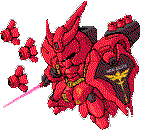
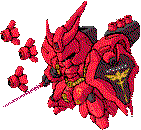
Apply 16-colour palettes to six suits; add reduce_palette tool and CloudPebble change guide

diff --git a/pebble/gundam_wfm_static_wf/tools/reduce_palette.py b/pebble/gundam_wfm_static_wf/tools/reduce_palette.py
@@ -1,0 +1,151 @@
+#!/usr/bin/env python3
+"""
+Reduce a sprite to a 16-colour palette (4 bits per pixel on the watch)
+======================================================================
+
+Usage
+-----
+  python reduce_palette.py SOURCE.png OUT.png WxH            # 15 colours + transparent
+  python reduce_palette.py SOURCE.png OUT.png WxH --flat     # no dithering
+  python reduce_palette.py SOURCE.png OUT.png WxH --colors 8 # fewer (no extra saving)
+
+Why this exists
+---------------
+fit_sprite.py writes 8-bit ARGB2222 sprites: 1 byte per pixel, whatever the
+number of colours. Pebble only stores bitmaps at 1, 2, 4 or 8 bits per pixel,
+so the only size drop worth having is getting a sprite down to 16 palette
+entries (one of them transparent), which the SDK stores at 4 bits per pixel:
+half the memory. A 42- or 32-colour palette saves nothing; it still needs 8 bits.
+
+What it does
+------------
+1. Scale SOURCE (trimmed to its opaque bounds) to WxH with Lanczos, filtered
+   on premultiplied alpha, like resize_sprite.py. SOURCE should be the
+   full-colour art (tools/originals), not an already-quantized sprite -- except
+   for a suit that was recoloured after import (Sazabi), where the shipped
+   sprite is the source of truth.
+2. Snap to the watch's 64 colours (ARGB2222, levels 0/85/170/255).
+3. Choose the 15 palette entries from those 64: weighted k-medoids in CIELAB,
+   with colour weight = sqrt(pixel count) so a small bright detail (an eye, a
+   beam) is not outvoted by a large flat area. Entries are real watch colours,
+   so nothing is re-mapped on the device.
+4. Map every pixel to the nearest entry, with damped Floyd-Steinberg dithering
+   (60% error diffusion; full diffusion is noisy at 15 colours). --flat skips it.
+5. Alpha is 1-bit: opaque or transparent (one palette entry).
+6. Save as an indexed PNG (transparent entry first, via tRNS) so the SDK sees
+   at most 16 colours and can pick its 4-bit palette format.
+
+Needs Pillow and NumPy.
+"""
+
+import sys
+
+import numpy as np
+from PIL import Image
+
+
+def lab(rgb):
+    """sRGB (0-255, ...x3) -> CIELAB."""
+    c = rgb / 255.0
+    c = np.where(c > 0.04045, ((c + 0.055) / 1.055) ** 2.4, c / 12.92)
+    m = np.array([[.4124, .3576, .1805], [.2126, .7152, .0722],
+                  [.0193, .1192, .9505]])
+    xyz = c @ m.T / np.array([.9505, 1, 1.089])
+    f = np.where(xyz > 0.008856, np.cbrt(xyz), 7.787 * xyz + 16 / 116)
+    return np.stack([116 * f[..., 1] - 16, 500 * (f[..., 0] - f[..., 1]),
+                     200 * (f[..., 1] - f[..., 2])], -1)
+
+
+def snap(a):
+    """Snap to the watch's four levels per channel."""
+    return (np.clip(np.round(np.asarray(a, float) / 85.0), 0, 3) * 85
+            ).astype(np.uint8)
+
+
+def choose_palette(snapped, k):
+    """k representative colours out of the (<=64) colours present."""
+    cols, cnt = np.unique(snapped.reshape(-1, 3), axis=0, return_counts=True)
+    if len(cols) <= k:
+        return cols
+    lb = lab(cols.astype(float))
+    w = np.sqrt(cnt.astype(float))
+    sel = [int(np.argmax(w))]
+    for _ in range(k - 1):                       # weighted farthest-point start
+        d = np.min(np.linalg.norm(lb[:, None] - lb[sel][None], axis=2), axis=1)
+        sel.append(int(np.argmax(d * w)))
+    for _ in range(20):                          # weighted k-medoids
+        asg = np.linalg.norm(lb[:, None] - lb[sel][None], axis=2).argmin(1)
+        new = []
+        for j in range(k):
+            m = np.flatnonzero(asg == j)
+            if len(m) == 0:
+                new.append(sel[j])
+                continue
+            cost = [(w[m] * np.linalg.norm(lb[m] - lb[i], axis=1)).sum()
+                    for i in m]
+            new.append(int(m[int(np.argmin(cost))]))
+        if new == sel:
+            break
+        sel = new
+    return cols[sel]
+
+
+def reduce_palette(src, size, colors=16, dither=True):
+    """Returns an indexed PIL image: index 0 transparent, then colors-1 colours."""
+    im = Image.open(src).convert('RGBA')
+    im = im.crop(im.getchannel('A').getbbox())
+    im = im.convert('RGBa').resize(size, Image.LANCZOS).convert('RGBA')
+    a = np.asarray(im)
+    op = a[:, :, 3] >= 128
+    rgb = a[:, :, :3].astype(float)
+    pal = choose_palette(snap(rgb)[op], colors - 1)
+    pl = lab(pal.astype(float))
+    h, w = op.shape
+    idx = np.zeros((h, w), np.uint8)             # 0 = transparent
+    if dither:
+        buf = rgb.copy()
+        for y in range(h):
+            for x in range(w):
+                if not op[y, x]:
+                    continue
+                old = buf[y, x]
+                i = int(np.linalg.norm(pl - lab(np.clip(old, 0, 255)),
+                                       axis=1).argmin())
+                idx[y, x] = i + 1
+                err = old - pal[i]
+                for dx, dy, f in ((1, 0, 7 / 16), (-1, 1, 3 / 16),
+                                  (0, 1, 5 / 16), (1, 1, 1 / 16)):
+                    nx, ny = x + dx, y + dy
+                    if 0 <= nx < w and ny < h:
+                        buf[ny, nx] += err * f * 0.6
+    else:
+        d = np.linalg.norm(lab(snap(rgb).astype(float))[..., None, :] - pl,
+                           axis=3)
+        idx = np.where(op, d.argmin(2) + 1, 0).astype(np.uint8)
+    out = Image.fromarray(idx, 'P')
+    flat = [0, 0, 0] + [int(v) for c in pal for v in c]
+    out.putpalette(flat)            # exact length: padding to 256 makes PIL write 8-bit
+    out.info['transparency'] = 0
+    return out
+
+
+def main(argv):
+    args = [a for a in argv[1:] if not a.startswith('--')]
+    colors = 16
+    if '--colors' in argv:
+        colors = int(argv[argv.index('--colors') + 1])
+        args = [a for a in args if a != str(colors)]
+    if len(args) != 3 or 'x' not in args[2].lower():
+        print(__doc__.strip())
+        return 2
+    src, dst, spec = args
+    w, h = (int(v) for v in spec.lower().split('x', 1))
+    img = reduce_palette(src, (w, h), colors, '--flat' not in argv)
+    img.save(dst, 'PNG', optimize=True, transparency=0)
+    print('%s: %dx%d, %d palette entries (index 0 transparent)'
+          % (dst, w, h, colors))
+    return 0
+
+
+if __name__ == '__main__':
+    sys.exit(main(sys.argv))

diff --git a/pebble/gundam_wfm_static_wf/CLOUDPEBBLE_CHANGES.md b/pebble/gundam_wfm_static_wf/CLOUDPEBBLE_CHANGES.md
@@ -1,0 +1,177 @@
+# CloudPebble change guide: everything since the original watchface
+
+Covers all edits made on branch `babel-claude/magical-cori-h3t34x`:
+five new suits (RX78, Victory 2, Zaku II, GM Sniper II, Kshatriya), enlarged
+Aerial / Byarlant / GP02A / Qubeley, round-safe chalk sprites, the new Gundam Xi
+art, and 16-colour sprites for six suits.
+
+**Line numbers are for the ORIGINAL files** (the repo before the first commit
+on this branch). Within each file, make the edits **bottom to top** so the
+numbers above stay valid. Find the lines by the quoted text if your copy has
+drifted.
+
+Only 3 files have code changes: `src/c/main.c`, `src/pkjs/config.js` and
+(through the Resources panel) `package.json`. Everything else is images.
+
+---
+
+## 1. `src/c/main.c` (2 edits)
+
+### Edit A, `load_sprite()` switch: insert after line 144 (do this first)
+
+Before (lines 144-146):
+```c
+144:     case SPRITE_SET_CROSSBONE: res = RESOURCE_ID_CROSSBONE_IDLE; break;
+145:     case SPRITE_SET_AERIAL:
+146:     default:                   res = RESOURCE_ID_AE_IDLE;        break;
+```
+After (5 new lines after 144; the old 145-146 become 150-151 in your file):
+```c
+    case SPRITE_SET_CROSSBONE: res = RESOURCE_ID_CROSSBONE_IDLE; break;
+    case SPRITE_SET_RX78:      res = RESOURCE_ID_RX78_IDLE;      break;
+    case SPRITE_SET_VICTORY2:  res = RESOURCE_ID_VICTORY2_IDLE;  break;
+    case SPRITE_SET_ZAKU2:     res = RESOURCE_ID_ZAKU2_IDLE;     break;
+    case SPRITE_SET_GMSNIPER2: res = RESOURCE_ID_GMSNIPER2_IDLE; break;
+    case SPRITE_SET_KSHATRIYA: res = RESOURCE_ID_KSHATRIYA_IDLE; break;
+    case SPRITE_SET_AERIAL:
+    default:                   res = RESOURCE_ID_AE_IDLE;        break;
+```
+
+### Edit B, `SpriteSet` enum: lines 36-38
+
+Before:
+```c
+36:   SPRITE_SET_CROSSBONE = 8,
+37: 
+38:   SPRITE_SET_LAST      = SPRITE_SET_CROSSBONE,  // clamp bound; bump with the list
+```
+After:
+```c
+  SPRITE_SET_CROSSBONE = 8,
+  SPRITE_SET_RX78      = 9,
+  SPRITE_SET_VICTORY2  = 10,
+  SPRITE_SET_ZAKU2     = 11,
+  SPRITE_SET_GMSNIPER2 = 12,
+  SPRITE_SET_KSHATRIYA = 13,
+
+  SPRITE_SET_LAST      = SPRITE_SET_KSHATRIYA,  // clamp bound; bump with the list
+```
+Forgetting the `SPRITE_SET_LAST` change is the easy mistake: the settings
+handler clamps any value above it, so the five new suits would all silently
+load as Crossbone (8).
+
+---
+
+## 2. `src/pkjs/config.js` (1 edit)
+
+Lines 23-31 (the `options` list). Line 31 needs a trailing comma.
+
+Before:
+```js
+31:           { "label": "Crossbone Full Cloth", "value": "8" }
+```
+After:
+```js
+          { "label": "Crossbone Full Cloth", "value": "8" },
+          { "label": "RX78",                 "value": "9" },
+          { "label": "Victory 2",            "value": "10" },
+          { "label": "Zaku II",              "value": "11" },
+          { "label": "GM Sniper II",         "value": "12" },
+          { "label": "Kshatriya",            "value": "13" }
+```
+Gundam Xi stays value `3`. Its art was replaced; there is no code change for it.
+
+---
+
+## 3. Resources (`package.json` `resources.media`)
+
+CloudPebble writes this file for you when you add resources in the
+**Resources** panel, so do it there: **Add new resource → Bitmap**, upload the
+file, set the **identifier**, and attach the `~chalk` file as the chalk variant
+if the panel offers a platform variant.
+
+Five new bitmap resources, identifiers exactly:
+
+| Identifier | Base file | Chalk file |
+|---|---|---|
+| `RX78_IDLE` | `rx78_idle.png` | `rx78_idle~chalk.png` |
+| `VICTORY2_IDLE` | `victory2_idle.png` | `victory2_idle~chalk.png` |
+| `ZAKU2_IDLE` | `zaku2_idle.png` | `zaku2_idle~chalk.png` |
+| `GMSNIPER2_IDLE` | `gmsniper2_idle.png` | `gmsniper2_idle~chalk.png` |
+| `KSHATRIYA_IDLE` | `kshatriya_idle.png` | `kshatriya_idle~chalk.png` |
+
+If you edit the JSON directly instead: insert these five blocks between line 84
+(`},` closing `CROSSBONE_IDLE`) and line 85 (the `{` that opens the
+`FONT_BLACKOPS_42` entry), one per row above:
+```json
+                {
+                    "file": "images/rx78_idle.png",
+                    "name": "RX78_IDLE",
+                    "targetPlatforms": null,
+                    "type": "bitmap"
+                },
+```
+
+---
+
+## 4. Image files (26 total)
+
+Source: `resources/images/` on this branch. **ADD** = new file, **REPLACE** = same
+name as an existing one (keep the identifier). Those marked 16c are 16-colour
+(see section 5).
+
+| File | Action | Size | |
+|---|---|---|---|
+| `rx78_idle.png` / `~chalk` | ADD | 107x130 / 82x100 | |
+| `victory2_idle.png` / `~chalk` | ADD | 200x128 / 125x80 | |
+| `zaku2_idle.png` / `~chalk` | ADD | 135x130 / 103x100 | 16c |
+| `gmsniper2_idle.png` / `~chalk` | ADD | 98x130 / 76x100 | |
+| `kshatriya_idle.png` / `~chalk` | ADD | 128x130 / 99x100 | |
+| `ae_idle.png` | REPLACE | 180x130 | enlarged |
+| `ae_idle~chalk.png` | ADD (chalk variant of `AE_IDLE`) | 119x86 | |
+| `gpo2a_idle.png` | REPLACE | 200x123 | enlarged |
+| `gpo2a_idle~chalk.png` | ADD (chalk variant of `GPO2A_IDLE`) | 136x84 | |
+| `byarlant_idle.png` | REPLACE | 175x130 | enlarged, 16c |
+| `byarlant_idle~chalk.png` | ADD (chalk variant of `BYARLANT_IDLE`) | 135x100 | 16c |
+| `qubeley_idle.png` / `~chalk` | REPLACE | 181x130 / 127x91 | enlarged, 16c |
+| `xi_idle.png` / `~chalk` | REPLACE | 155x130 / 109x91 | new Xi art |
+| `sazabi_idle.png` / `~chalk` | REPLACE | 141x130 / 108x100 | 16c |
+| `zeta_idle.png` / `~chalk` | REPLACE | 166x130 / 115x90 | 16c |
+| `crossbone_idle.png` / `~chalk` | REPLACE | 137x130 / 106x100 | 16c |
+
+Unchanged: Calibarn (`cb_idle*`), so nothing to upload for it.
+
+---
+
+## 5. The 16-colour sprites
+
+Six suits (Sazabi, Zeta, Zaku II, Qubeley, Crossbone, Byarlant), emery and
+chalk: 12 files. Each is an indexed PNG with 15 colours plus transparent,
+stored at 4 bits per pixel instead of 8.
+
+Estimated bitmap memory, emery: **269 KB to 210 KB**. Chalk: **108 KB**.
+Those are my estimates (width x height x bytes per pixel), not SDK output.
+
+Things to check in the CloudPebble build:
+
+1. **Resource size.** The build log reports it. Compare against what I
+   estimated. I don't know the exact limit for emery.
+2. **4-bit storage.** The SDK should pick the 4-bit palette format for these
+   automatically. If a resource's panel shows a **memory format** setting, leave
+   it on the smallest option; do not force 8-bit. I have not verified this
+   against the SDK.
+3. **Look at the six in the emulator.** The fix if one looks wrong is to put
+   its old 8-bit PNG back (see git history of `resources/images/`).
+
+To rebuild one: `python tools/reduce_palette.py SOURCE.png OUT.png WxH`
+(`tools/reduce_palette.py`). For Sazabi, use the shipped sprite as the source,
+since it was recoloured after import.
+
+---
+
+## 6. Order that avoids build errors
+
+1. Upload all images (section 4) and create the five resources (section 3).
+2. Edit `main.c` (section 1), then `config.js` (section 2).
+3. Build for **emery** and **chalk**; fix any resource-size error first.
+4. In the config page, pick each new suit and check it renders.
